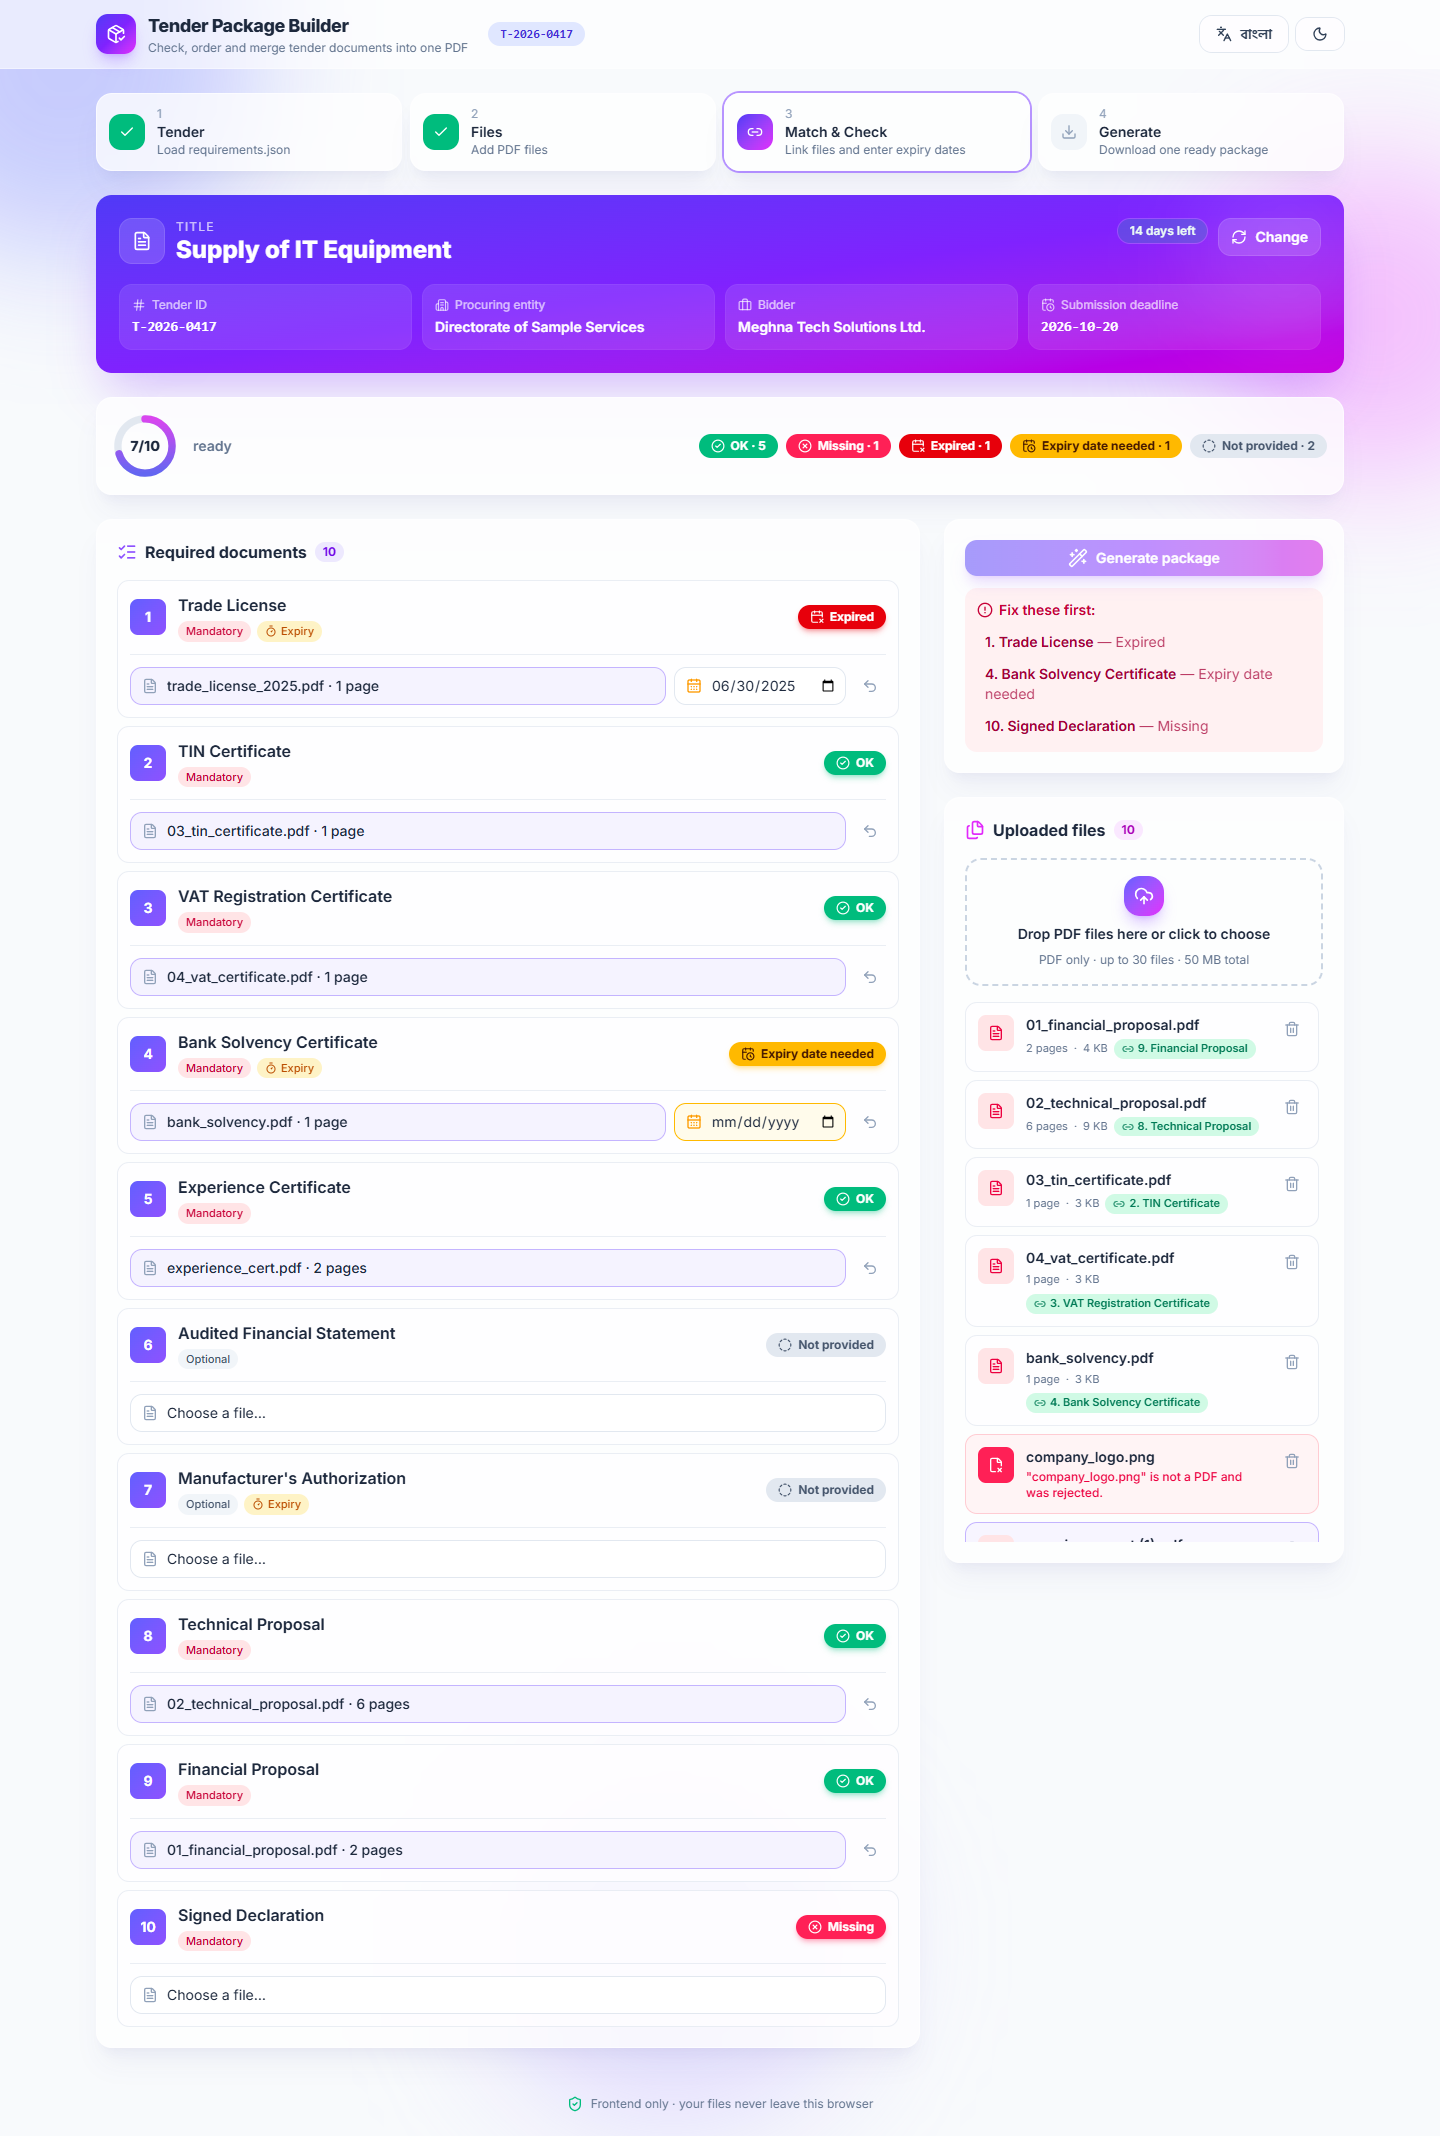
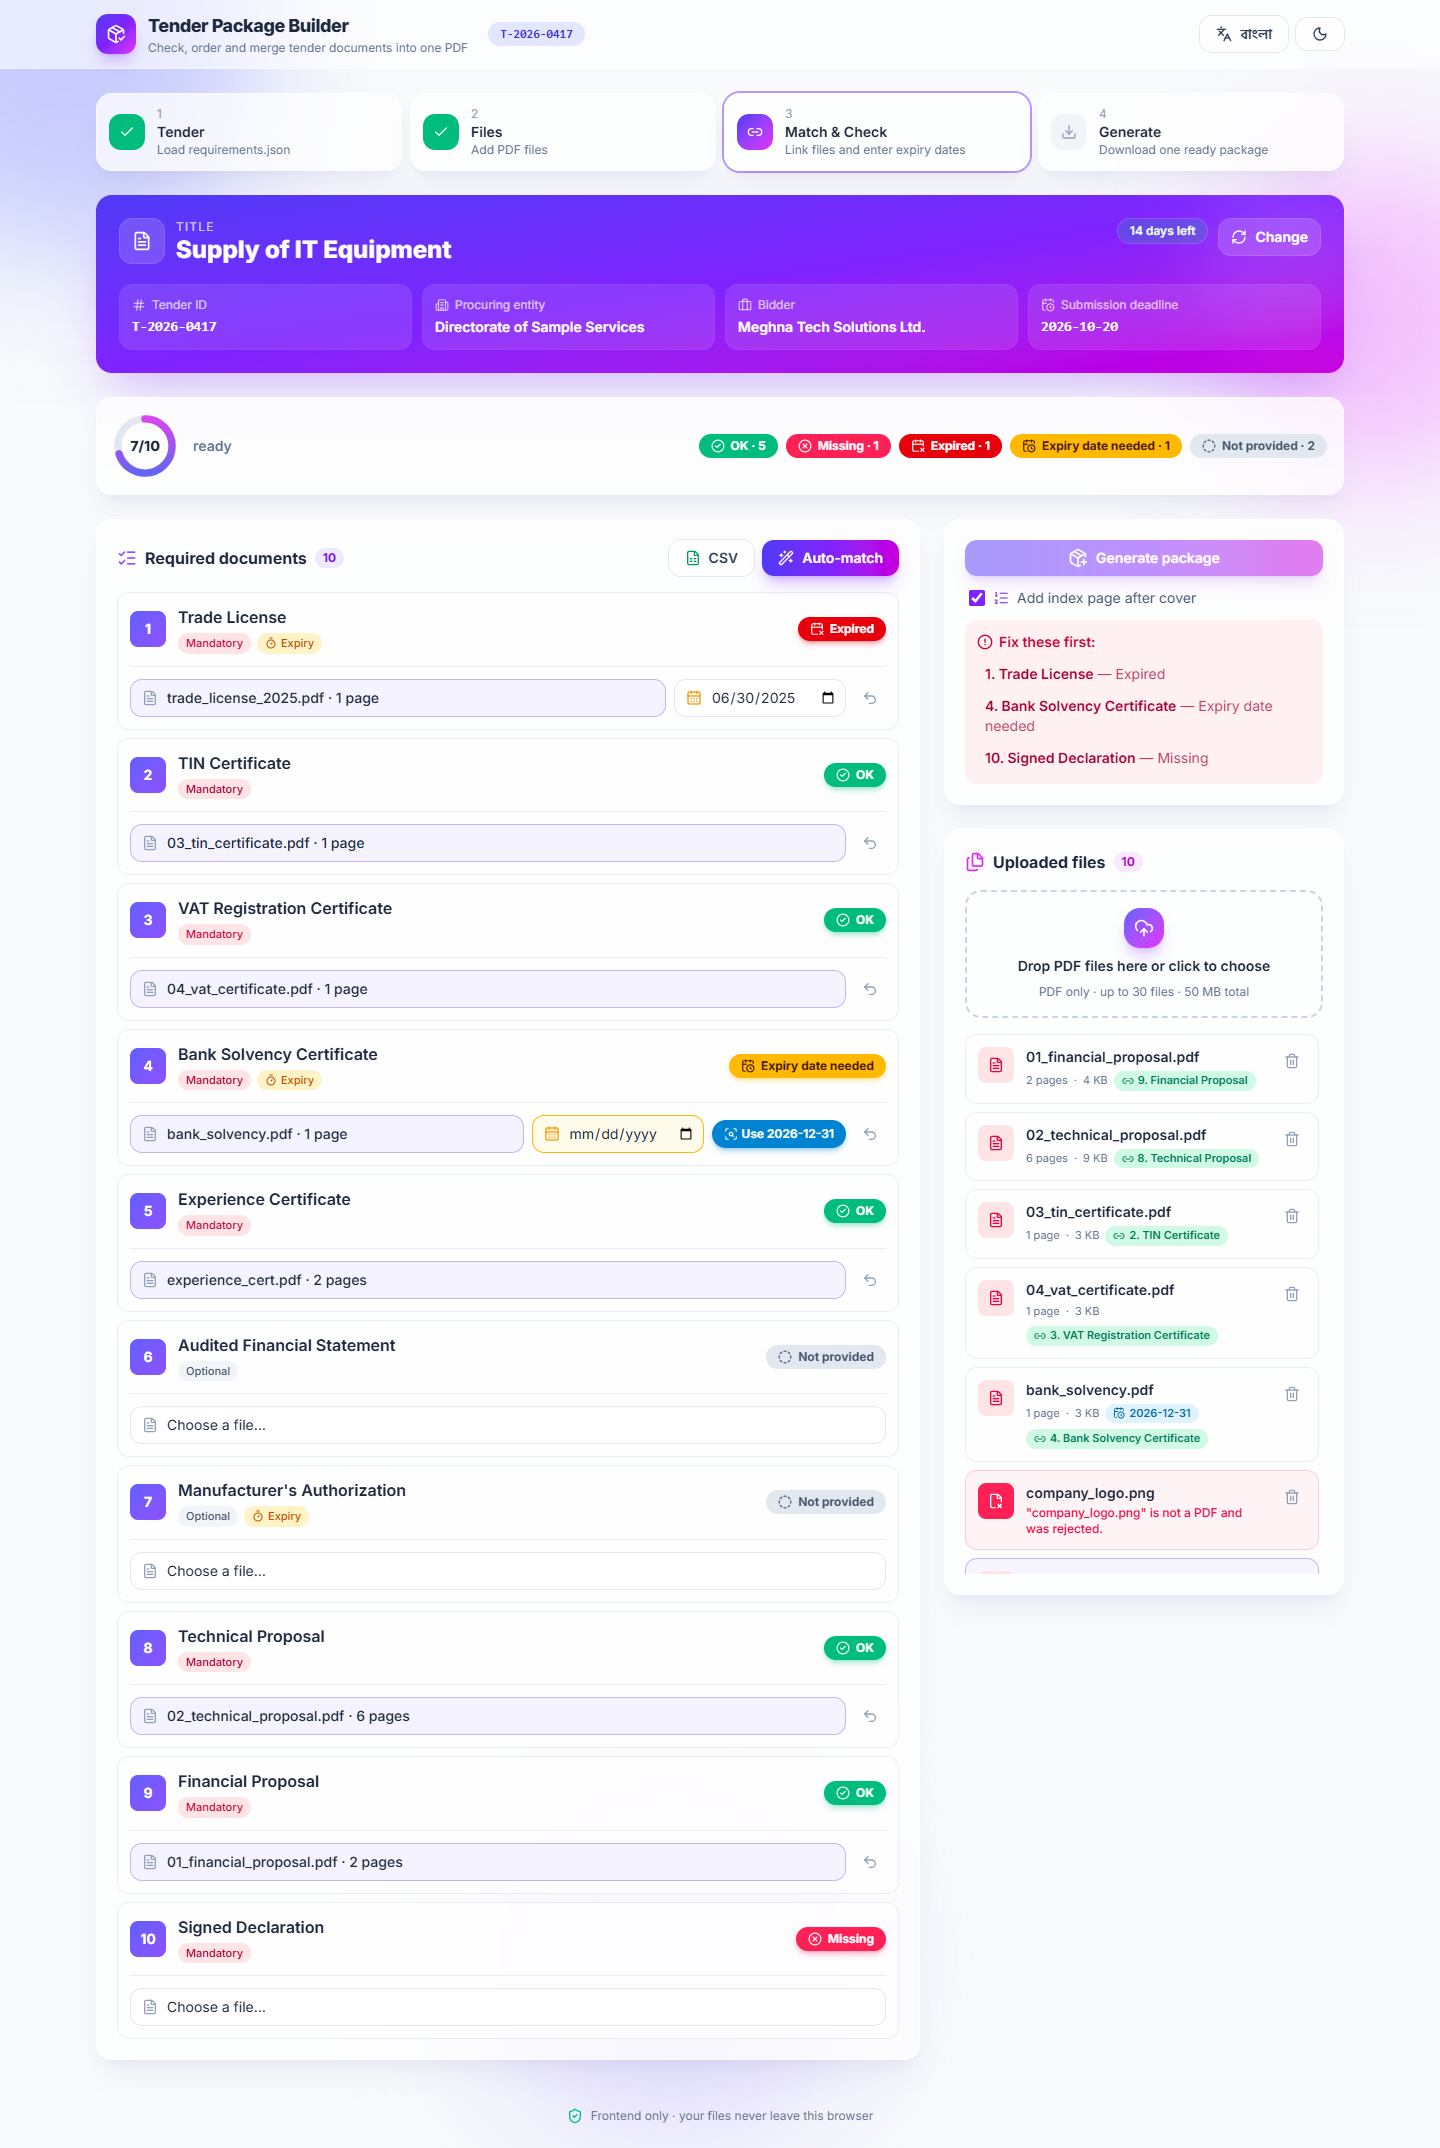
chore: rulebook compliance pass - translated toast close label and page title, README bonus list/tools updated, screenshots retaken with latest UI
Prompt: "er por check korba, rule book onujayi je je rules gula silo amra sob gula rules mansi kina, ar readme ta thik thak format e ase kina. then vercel thik thak kaj kortese kina."

diff --git a/src/components/Toasts.jsx b/src/components/Toasts.jsx
@@ -1,5 +1,6 @@
 import { createContext, useCallback, useContext, useState } from 'react'
 import { AlertTriangle, CheckCircle2, Info, X } from 'lucide-react'
+import { useT } from '../i18n.js'
 
 const Ctx = createContext(() => {})
 const STYLE = {
@@ -9,6 +10,7 @@ const STYLE = {
 }
 
 export function ToastProvider({ children }) {
+  const { t } = useT()
   const [items, setItems] = useState([])
   const close = (id) => setItems((xs) => xs.filter((x) => x.id !== id))
   const push = useCallback((type, msg) => {
@@ -27,7 +29,7 @@ export function ToastProvider({ children }) {
             <div key={id} className={`rise flex items-start gap-3 rounded-xl ${bg} p-3 text-sm text-white shadow-xl`}>
               <Icon className="mt-0.5 size-4 shrink-0" />
               <p className="flex-1">{msg}</p>
-              <button onClick={() => close(id)} className="cursor-pointer opacity-70 hover:opacity-100" aria-label="close">
+              <button onClick={() => close(id)} className="cursor-pointer opacity-70 hover:opacity-100" aria-label={t('close')}>
                 <X className="size-4" />
               </button>
             </div>

diff --git a/src/i18n.js b/src/i18n.js
@@ -224,6 +224,7 @@ export function I18nProvider({ children }) {
 
   useEffect(() => {
     document.documentElement.lang = lang
+    document.title = dict[lang].appName
     try { localStorage.setItem('lang', lang) } catch {}
   }, [lang])
 

diff --git a/README.md b/README.md
@@ -68,9 +68,9 @@ Handy URL parameters: `?lang=bn|en`, `?theme=dark|light`, `?sample=1` (auto-load
 - **✨ Auto-match:** one click suggests matches from the file names. It uses keywords and synonyms from `title_en` (trade/licence, tin/tax, vat/bin, solvency/bank and so on), prefers the newer year (`_2026` over `_2025`) and the original over a `(1)` copy, never uses two duplicates, and fills only documents that are still empty. An **Undo** button restores the previous matches.
 - **Index page after the cover:** lists each document with its page range and the page where it starts, with dotted leaders. It is on by default and can be turned off with a checkbox. The cover table also shows the start pages.
 - **Export checklist (CSV):** the CSV button downloads `<tender_id>_Checklist.csv` with Order, Document, Mandatory, File name, Pages, Expiry date and Status, in the chosen language. It has a UTF-8 BOM so Excel shows Bangla correctly.
-- **Wrong-file warning:** when a file's name clearly belongs to another document (for example `trade_license_2025.pdf` matched to TIN Certificate), a soft amber warning appears. The status still follows Section 5 exactly.
+- **Wrong-file warning:** when a file's name or text clearly belongs to another document (for example `trade_license_2025.pdf` matched to TIN Certificate), a soft amber warning appears. The status still follows Section 5 exactly.
 - **Handle bad files safely:** damaged or password-protected PDFs show a clear bilingual message instead of crashing.
-- _(More bonus features are listed here as they are added.)_
+- **Preview before download:** after generating, the package can be viewed in an in-app PDF viewer or downloaded directly.
 
 ## Known issues
 
@@ -81,7 +81,7 @@ Handy URL parameters: `?lang=bn|en`, `?theme=dark|light`, `?sample=1` (auto-load
 
 ## AI tools used
 
-- **Claude Code (Claude Opus 5.5)**: planning, code generation, testing, git commits and README.
+- **Claude Code (Claude Opus 5.5)**: planning (`Plan.md`), code generation, testing, git commits and README. Every prompt is listed in [`Prompt.md`](Prompt.md) and in each commit message.
 
 ## Most useful prompt
 
@@ -91,7 +91,7 @@ This prompt, together with a written `Plan.md` that listed the exact status rule
 
 ## Tech
 
-Vite + React, Tailwind CSS v4, lucide-react icons, **pdf-lib** (merge, cover, footer), **pdfjs-dist** (page count and bad-file detection), Web Crypto SHA-256, Vitest. Everything runs in the browser. There is no backend and no stored secrets.
+Vite + React, Tailwind CSS v4, lucide-react icons, **pdf-lib** (merge, cover, footer), **pdfjs-dist** (page count, bad-file detection, Smart Read text), Web Crypto SHA-256, Vitest. Everything runs in the browser. There is no backend and no stored secrets.
 
 ## Screenshots
 
